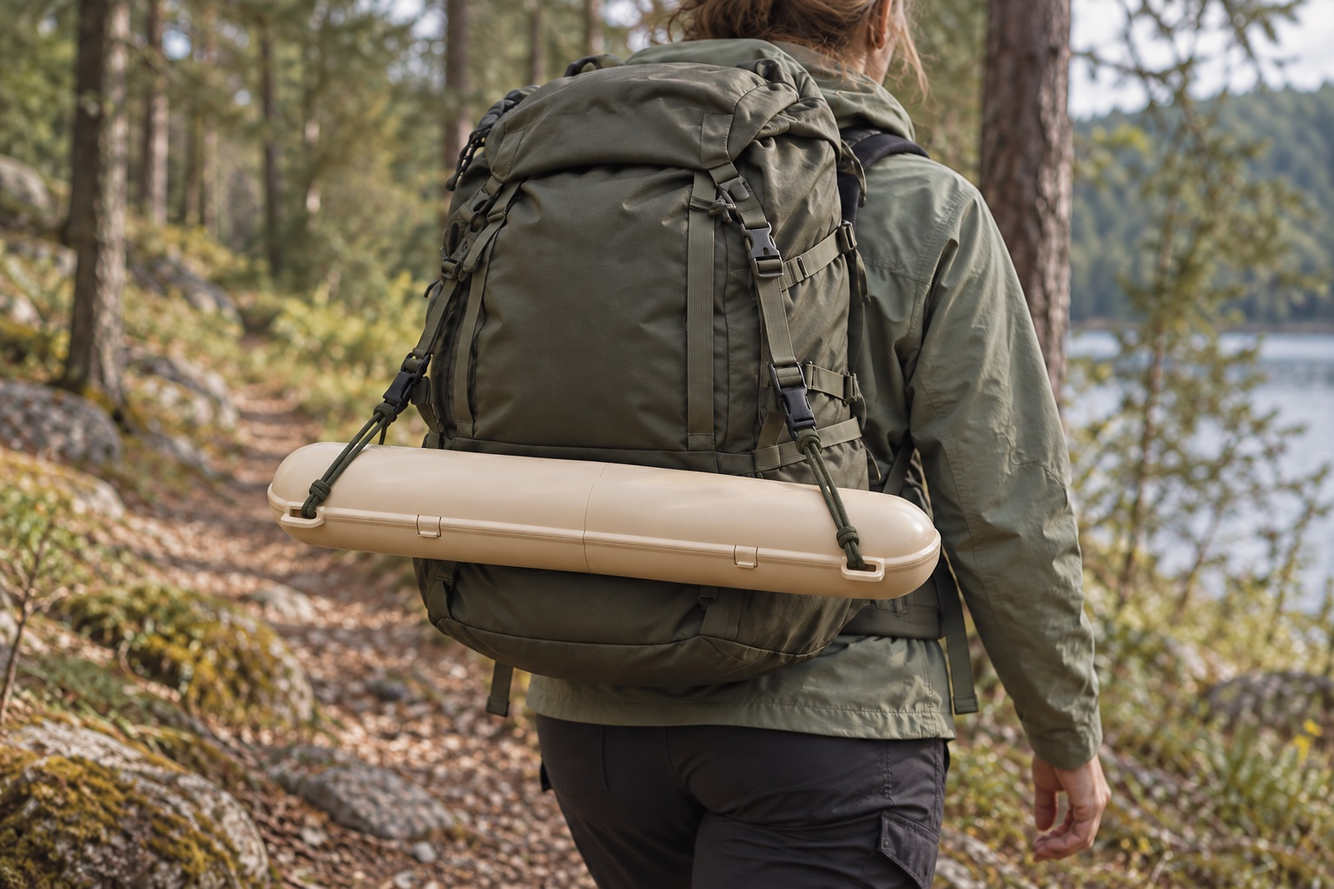
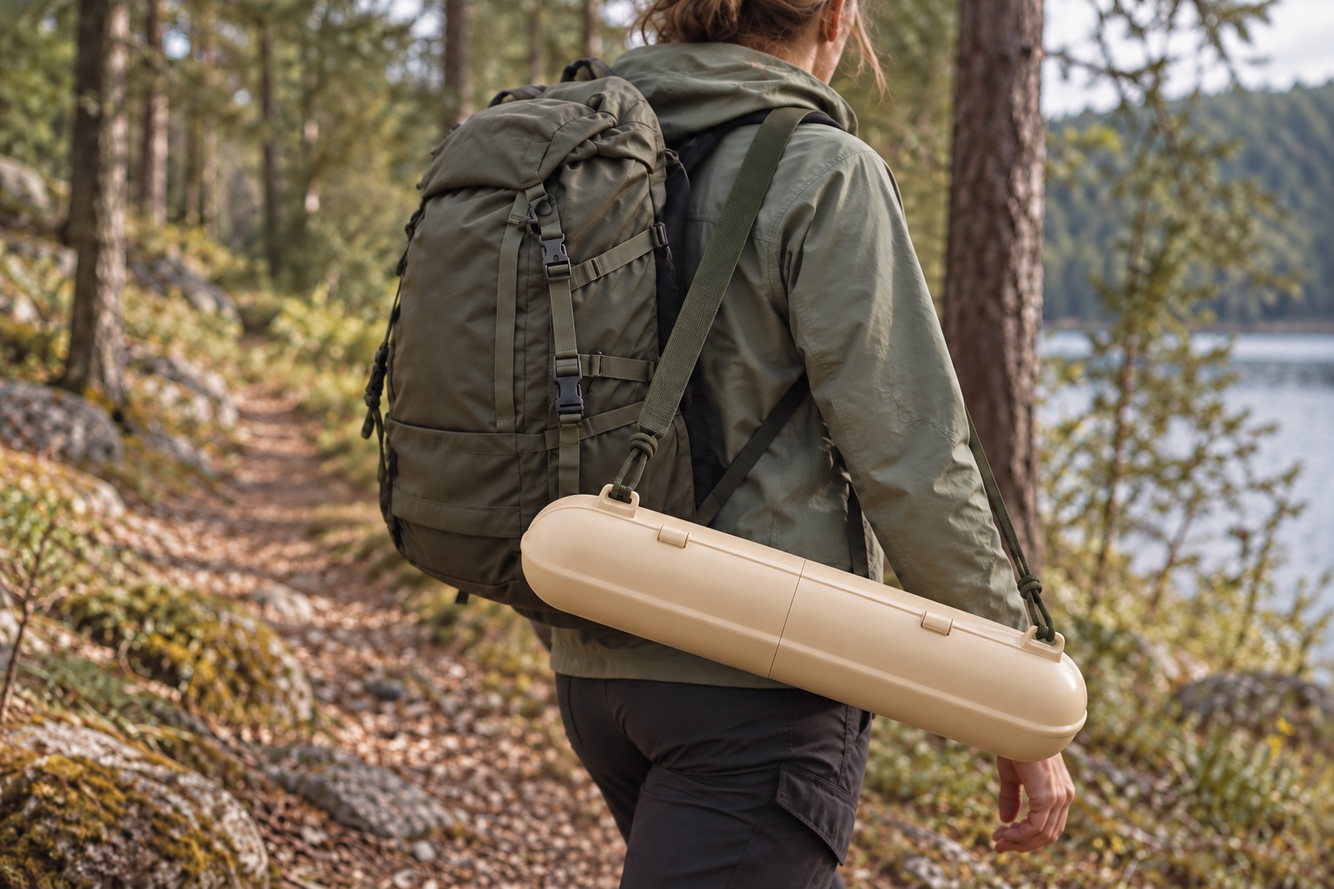
Correct baguette strap suspension and open use cases first

diff --git a/src/baguette-project.js b/src/baguette-project.js
@@ -48,11 +48,11 @@ function buildFeatures(info,gallery,viewer){
 }
 
 const useCases=[
- {id:'carry',label:'01 / STRAP FUNCTIONALITY',title:'A strap. Two attachment points.',copy:'A removable shoulder strap connects to the rounded eyes at either end of the shell. Carry it at your side and leave your hands free.',alt:'Concept rendering of the ivory baguette case worn at the hip, with an olive shoulder strap connected to its end eyes.'},
+ {id:'carry',label:'01 / STRAP FUNCTIONALITY',title:'A strap. Two attachment points.',copy:'The shoulder strap pulls outward from the two projecting eyes. The case hangs beneath these tension points, with the strap clear of the shell.',alt:'Concept rendering of the ivory baguette case hanging below its two outward-projecting eyes, with taut shoulder straps clear of the shell.'},
  {id:'rain',label:'02 / RAIN',title:'For the walk home.',copy:'A closed-shell carry concept for a drizzly trip from the bakery. Weather resistance is still to be tested.',alt:'Model-based concept of the closed baguette holder on a shoulder strap during a rainy walk.'},
  {id:'picnic',label:'03 / PICNIC',title:'Unclip. Open. Share.',copy:'Set it down on the blanket and open the hinged lid. The smooth interior leaves room for one very good baguette.',alt:'Concept rendering of the open baguette case holding bread on a linen picnic blanket.'},
  {id:'travel',label:'04 / TRAVEL',title:'A little room for the journey.',copy:'From the bakery to the train, keep your baguette in its own contoured case. Unshoulder the strap when it is time to settle in.',alt:'Concept rendering of the closed baguette case and its loose carry strap on a train table.'},
- {id:'backpacking',label:'05 / BACKPACKING',title:'Bread beyond the city.',copy:'Use the end eyes to connect the holder to pack webbing with accessory straps. A trail-carry concept with the bread close at hand.',alt:'Concept rendering of the baguette holder attached horizontally to a hiking backpack through its two end eyes.'}
+ {id:'backpacking',label:'05 / BACKPACKING',title:'Bread beyond the city.',copy:'Wear the strap over your shoulder and let the case hang at your side. Both ends pull from the projecting eyes, leaving your backpack free for the rest.',alt:'Concept rendering of a hiker carrying the baguette case at their hip on a shoulder strap, suspended from its two outer eyes.'}
 ];
 
 function buildUseCases(){
@@ -62,7 +62,7 @@ function buildUseCases(){
  const grid=make('div','baguette-use-case-grid');
  for(const scene of useCases){
   const card=make('article','baguette-use-case'+(scene.id==='carry'?' baguette-use-case-lead':''));
-  const figure=make('figure');const img=make('img');img.src=new URL(`../assets/baguette-use-cases/${scene.id}.jpg`,import.meta.url).href;img.alt=scene.alt;img.width=1536;img.height=1024;img.loading='lazy';img.decoding='async';figure.append(img);
+  const figure=make('figure');const img=make('img');img.src=new URL(`../assets/baguette-use-cases/${scene.id}.jpg?v=shoulder-20260912`,import.meta.url).href;img.alt=scene.alt;img.width=1536;img.height=1024;img.loading=scene.id==='carry'?'eager':'lazy';img.decoding='async';figure.append(img);
   const copy=make('div','baguette-use-case-copy');copy.append(make('span','section-number',scene.label),make('h3','',scene.title),make('p','',scene.copy));
   card.append(figure,copy);grid.append(card);
  }
@@ -72,7 +72,7 @@ function buildUseCases(){
 function buildContentViews(features,useCases){
  const wrapper=make('div','baguette-content-views');
  const tabs=make('div','baguette-content-tabs');tabs.setAttribute('role','tablist');tabs.setAttribute('aria-label','Explore the baguette holder');
- const entries=[['features','Features',features],['use-cases','Use cases',useCases]];
+ const entries=[['use-cases','Use cases',useCases],['features','Features',features]];
  const buttons=entries.map(([id,label,panel])=>{
   const button=make('button','',label);button.type='button';button.id=`baguette-tab-${id}`;button.setAttribute('role','tab');button.setAttribute('aria-controls',`baguette-panel-${id}`);
   panel.id=`baguette-panel-${id}`;panel.setAttribute('role','tabpanel');panel.setAttribute('aria-labelledby',button.id);panel.tabIndex=0;tabs.append(button);return button;
@@ -82,7 +82,8 @@ function buildContentViews(features,useCases){
   button.addEventListener('click',()=>select(index));
   button.addEventListener('keydown',event=>{let next;if(event.key==='ArrowRight')next=(index+1)%buttons.length;if(event.key==='ArrowLeft')next=(index+buttons.length-1)%buttons.length;if(event.key==='Home')next=0;if(event.key==='End')next=buttons.length-1;if(next===undefined)return;event.preventDefault();select(next);buttons[next].focus();});
  });
- select(0);wrapper.append(tabs,features,useCases);return wrapper;
+ // Shared model-view links still open their requested geometry directly.
+ select(new URLSearchParams(location.search).has('view')?1:0);wrapper.append(tabs,...entries.map(([, ,panel])=>panel));return wrapper;
 }
 
 export async function buildBaguetteProject(container,project){
@@ -107,8 +108,9 @@ export async function buildBaguetteProject(container,project){
   const note=document.createElement('span');note.className='prototype';note.textContent=review.querySelector('.prototype')?.textContent||'Engineering prototype';heading.append(revision,note);
   const viewer=copy(originalViewer),info=copy(details),gallery=copy(renders);
   const hint=document.createElement('p');hint.className='baguette-gesture-hint';hint.textContent='Drag to rotate · Scroll to move the page';viewer.querySelector('[data-model-stage]').after(hint);
-  const contentViews=buildContentViews(buildFeatures(info,gallery,viewer),buildUseCases());
-  experience.replaceChildren(heading,viewer,contentViews);
+  const features=buildFeatures(info,gallery,viewer);features.prepend(heading,viewer);
+  const contentViews=buildContentViews(features,buildUseCases());
+  experience.replaceChildren(contentViews);
   document.querySelector('meta[name="description"]')?.setAttribute('content',project.description?.[0]||project.summary);
   const revisionQuery=new URL(review.querySelector('script[src*="review.js"]').getAttribute('src'),reviewURL).search;
   const modelURL=assetURL('baguette-v3.glb'+revisionQuery);

diff --git a/project.html b/project.html
@@ -1,1 +1,1 @@
-<!doctype html><html lang="en"><head><meta charset="utf-8"><meta name="viewport" content="width=device-width,initial-scale=1"><title>Project — Parametric Space</title><meta name="description" content="Explore projects from Parametric Space."><link rel="icon" href="assets/logo-ps-transparent.png"><script>if(new URLSearchParams(location.search).get("id")==="csi-presence")document.documentElement.classList.add("radar-project-page");if(new URLSearchParams(location.search).get("id")==="station")document.documentElement.classList.add("station-project-page");if(new URLSearchParams(location.search).get("id")==="modular-garage")document.documentElement.classList.add("garage-project-page");</script><script src="theme.js?v=f5b2ecdff2"></script><link rel="stylesheet" href="styles.css?v=1f9f2c5406"><link rel="stylesheet" href="garage.css?v=22989c6191"><script>if(new URLSearchParams(location.search).get('id')==='station'){const sheet=document.createElement('link');sheet.rel='stylesheet';sheet.href='station.css?v=42d08a5e2c';document.head.append(sheet);}</script><script>if(new URLSearchParams(location.search).get('id')==='csi-presence'){const sheet=document.createElement('link');sheet.rel='stylesheet';sheet.href='radar.css?v=csi-abstract-1';document.head.append(sheet);}</script></head><body data-page="project"><div class="site-shell"><header><a href="./" class="brand" aria-label="Parametric Space home"><img class="logo-3d" src="assets/logo-ps-transparent.png" width="68" height="68" alt=""/><span>parametric space<span class="brand-dot">.</span></span></a><nav class="site-nav" aria-label="Main"><a href="projects.html">Projects</a><a href="cart.html">Cart <span data-cart-count>0</span></a><button class="theme-toggle" type="button" data-theme-toggle aria-label="Switch to dark mode" aria-pressed="false"><svg class="theme-icon" viewBox="0 0 24 24" width="19" height="19" fill="none" stroke="currentColor" stroke-width="1.6" aria-hidden="true"><path d="M20.3 14A8.5 8.5 0 0 1 10 3.7 8.5 8.5 0 1 0 20.3 14Z"/></svg><span data-theme-label>Dark</span></button></nav></header><main class="shop-main"><div class="shop-heading"><span class="section-number">PARAMETRIC SPACE / PROJECT</span><h1 id="page-heading">Project</h1><p id="page-intro"></p></div><div id="shop-content"></div><p id="shop-status" role="status" aria-live="polite"></p><noscript>Please enable JavaScript to view projects and use the cart.</noscript></main><footer><span>© <span id="year">2026</span> Parametric Space</span><a href="mailto:info@parametric.space">info@parametric.space</a></footer></div><script src="shop-config.js?v=3938344221"></script><script type="module" src="shop.js?v=b11a629762"></script></body></html>
+<!doctype html><html lang="en"><head><meta charset="utf-8"><meta name="viewport" content="width=device-width,initial-scale=1"><title>Project — Parametric Space</title><meta name="description" content="Explore projects from Parametric Space."><link rel="icon" href="assets/logo-ps-transparent.png"><script>if(new URLSearchParams(location.search).get("id")==="csi-presence")document.documentElement.classList.add("radar-project-page");if(new URLSearchParams(location.search).get("id")==="station")document.documentElement.classList.add("station-project-page");if(new URLSearchParams(location.search).get("id")==="modular-garage")document.documentElement.classList.add("garage-project-page");</script><script src="theme.js?v=f5b2ecdff2"></script><link rel="stylesheet" href="styles.css?v=1f9f2c5406"><link rel="stylesheet" href="garage.css?v=22989c6191"><script>if(new URLSearchParams(location.search).get('id')==='station'){const sheet=document.createElement('link');sheet.rel='stylesheet';sheet.href='station.css?v=42d08a5e2c';document.head.append(sheet);}</script><script>if(new URLSearchParams(location.search).get('id')==='csi-presence'){const sheet=document.createElement('link');sheet.rel='stylesheet';sheet.href='radar.css?v=csi-abstract-1';document.head.append(sheet);}</script></head><body data-page="project"><div class="site-shell"><header><a href="./" class="brand" aria-label="Parametric Space home"><img class="logo-3d" src="assets/logo-ps-transparent.png" width="68" height="68" alt=""/><span>parametric space<span class="brand-dot">.</span></span></a><nav class="site-nav" aria-label="Main"><a href="projects.html">Projects</a><a href="cart.html">Cart <span data-cart-count>0</span></a><button class="theme-toggle" type="button" data-theme-toggle aria-label="Switch to dark mode" aria-pressed="false"><svg class="theme-icon" viewBox="0 0 24 24" width="19" height="19" fill="none" stroke="currentColor" stroke-width="1.6" aria-hidden="true"><path d="M20.3 14A8.5 8.5 0 0 1 10 3.7 8.5 8.5 0 1 0 20.3 14Z"/></svg><span data-theme-label>Dark</span></button></nav></header><main class="shop-main"><div class="shop-heading"><span class="section-number">PARAMETRIC SPACE / PROJECT</span><h1 id="page-heading">Project</h1><p id="page-intro"></p></div><div id="shop-content"></div><p id="shop-status" role="status" aria-live="polite"></p><noscript>Please enable JavaScript to view projects and use the cart.</noscript></main><footer><span>© <span id="year">2026</span> Parametric Space</span><a href="mailto:info@parametric.space">info@parametric.space</a></footer></div><script src="shop-config.js?v=3938344221"></script><script type="module" src="shop.js?v=13aa826220"></script></body></html>

diff --git a/projects-3d.html b/projects-3d.html
@@ -1,1 +1,1 @@
-<!doctype html><html lang="en"><head><meta charset="utf-8"><meta name="viewport" content="width=device-width,initial-scale=1"><link rel="canonical" href="https://parametric.space/projects.html"><title>Projects — Parametric Space</title><meta name="description" content="Explore projects from Parametric Space."><link rel="icon" href="assets/logo-ps-transparent.png"><script src="theme.js?v=f5b2ecdff2"></script><link rel="stylesheet" href="styles.css?v=1f9f2c5406"><link rel="stylesheet" href="garage.css?v=22989c6191"></head><body data-page="projects"><div class="site-shell"><header><a href="./" class="brand" aria-label="Parametric Space home"><img class="logo-3d" src="assets/logo-ps-transparent.png" width="68" height="68" alt=""/><span>parametric space<span class="brand-dot">.</span></span></a><nav class="site-nav" aria-label="Main"><a href="projects.html">Projects</a><a href="cart.html">Cart <span data-cart-count>0</span></a><button class="theme-toggle" type="button" data-theme-toggle aria-label="Switch to dark mode" aria-pressed="false"><svg class="theme-icon" viewBox="0 0 24 24" width="19" height="19" fill="none" stroke="currentColor" stroke-width="1.6" aria-hidden="true"><path d="M20.3 14A8.5 8.5 0 0 1 10 3.7 8.5 8.5 0 1 0 20.3 14Z"/></svg><span data-theme-label>Dark</span></button></nav></header><main class="shop-main"><div class="shop-heading"><span class="section-number">PARAMETRIC SPACE / PROJECTS</span><h1 id="page-heading">Projects</h1><p id="page-intro">Objects, devices, and ideas taking shape.</p></div><div id="shop-content"></div><p id="shop-status" role="status" aria-live="polite"></p><noscript>Please enable JavaScript to view projects and use the cart.</noscript></main><footer><span>© <span id="year">2026</span> Parametric Space</span><a href="mailto:info@parametric.space">info@parametric.space</a></footer></div><script src="shop-config.js?v=3938344221"></script><script type="module" src="shop.js?v=b11a629762"></script></body></html>
+<!doctype html><html lang="en"><head><meta charset="utf-8"><meta name="viewport" content="width=device-width,initial-scale=1"><link rel="canonical" href="https://parametric.space/projects.html"><title>Projects — Parametric Space</title><meta name="description" content="Explore projects from Parametric Space."><link rel="icon" href="assets/logo-ps-transparent.png"><script src="theme.js?v=f5b2ecdff2"></script><link rel="stylesheet" href="styles.css?v=1f9f2c5406"><link rel="stylesheet" href="garage.css?v=22989c6191"></head><body data-page="projects"><div class="site-shell"><header><a href="./" class="brand" aria-label="Parametric Space home"><img class="logo-3d" src="assets/logo-ps-transparent.png" width="68" height="68" alt=""/><span>parametric space<span class="brand-dot">.</span></span></a><nav class="site-nav" aria-label="Main"><a href="projects.html">Projects</a><a href="cart.html">Cart <span data-cart-count>0</span></a><button class="theme-toggle" type="button" data-theme-toggle aria-label="Switch to dark mode" aria-pressed="false"><svg class="theme-icon" viewBox="0 0 24 24" width="19" height="19" fill="none" stroke="currentColor" stroke-width="1.6" aria-hidden="true"><path d="M20.3 14A8.5 8.5 0 0 1 10 3.7 8.5 8.5 0 1 0 20.3 14Z"/></svg><span data-theme-label>Dark</span></button></nav></header><main class="shop-main"><div class="shop-heading"><span class="section-number">PARAMETRIC SPACE / PROJECTS</span><h1 id="page-heading">Projects</h1><p id="page-intro">Objects, devices, and ideas taking shape.</p></div><div id="shop-content"></div><p id="shop-status" role="status" aria-live="polite"></p><noscript>Please enable JavaScript to view projects and use the cart.</noscript></main><footer><span>© <span id="year">2026</span> Parametric Space</span><a href="mailto:info@parametric.space">info@parametric.space</a></footer></div><script src="shop-config.js?v=3938344221"></script><script type="module" src="shop.js?v=13aa826220"></script></body></html>

diff --git a/projects-hardware.html b/projects-hardware.html
@@ -1,1 +1,1 @@
-<!doctype html><html lang="en"><head><meta charset="utf-8"><meta name="viewport" content="width=device-width,initial-scale=1"><link rel="canonical" href="https://parametric.space/projects.html"><title>Projects — Parametric Space</title><meta name="description" content="Explore projects from Parametric Space."><link rel="icon" href="assets/logo-ps-transparent.png"><script src="theme.js?v=f5b2ecdff2"></script><link rel="stylesheet" href="styles.css?v=1f9f2c5406"><link rel="stylesheet" href="garage.css?v=22989c6191"></head><body data-page="projects"><div class="site-shell"><header><a href="./" class="brand" aria-label="Parametric Space home"><img class="logo-3d" src="assets/logo-ps-transparent.png" width="68" height="68" alt=""/><span>parametric space<span class="brand-dot">.</span></span></a><nav class="site-nav" aria-label="Main"><a href="projects.html">Projects</a><a href="cart.html">Cart <span data-cart-count>0</span></a><button class="theme-toggle" type="button" data-theme-toggle aria-label="Switch to dark mode" aria-pressed="false"><svg class="theme-icon" viewBox="0 0 24 24" width="19" height="19" fill="none" stroke="currentColor" stroke-width="1.6" aria-hidden="true"><path d="M20.3 14A8.5 8.5 0 0 1 10 3.7 8.5 8.5 0 1 0 20.3 14Z"/></svg><span data-theme-label>Dark</span></button></nav></header><main class="shop-main"><div class="shop-heading"><span class="section-number">PARAMETRIC SPACE / PROJECTS</span><h1 id="page-heading">Projects</h1><p id="page-intro">Objects, devices, and ideas taking shape.</p></div><div id="shop-content"></div><p id="shop-status" role="status" aria-live="polite"></p><noscript>Please enable JavaScript to view projects and use the cart.</noscript></main><footer><span>© <span id="year">2026</span> Parametric Space</span><a href="mailto:info@parametric.space">info@parametric.space</a></footer></div><script src="shop-config.js?v=3938344221"></script><script type="module" src="shop.js?v=b11a629762"></script></body></html>
+<!doctype html><html lang="en"><head><meta charset="utf-8"><meta name="viewport" content="width=device-width,initial-scale=1"><link rel="canonical" href="https://parametric.space/projects.html"><title>Projects — Parametric Space</title><meta name="description" content="Explore projects from Parametric Space."><link rel="icon" href="assets/logo-ps-transparent.png"><script src="theme.js?v=f5b2ecdff2"></script><link rel="stylesheet" href="styles.css?v=1f9f2c5406"><link rel="stylesheet" href="garage.css?v=22989c6191"></head><body data-page="projects"><div class="site-shell"><header><a href="./" class="brand" aria-label="Parametric Space home"><img class="logo-3d" src="assets/logo-ps-transparent.png" width="68" height="68" alt=""/><span>parametric space<span class="brand-dot">.</span></span></a><nav class="site-nav" aria-label="Main"><a href="projects.html">Projects</a><a href="cart.html">Cart <span data-cart-count>0</span></a><button class="theme-toggle" type="button" data-theme-toggle aria-label="Switch to dark mode" aria-pressed="false"><svg class="theme-icon" viewBox="0 0 24 24" width="19" height="19" fill="none" stroke="currentColor" stroke-width="1.6" aria-hidden="true"><path d="M20.3 14A8.5 8.5 0 0 1 10 3.7 8.5 8.5 0 1 0 20.3 14Z"/></svg><span data-theme-label>Dark</span></button></nav></header><main class="shop-main"><div class="shop-heading"><span class="section-number">PARAMETRIC SPACE / PROJECTS</span><h1 id="page-heading">Projects</h1><p id="page-intro">Objects, devices, and ideas taking shape.</p></div><div id="shop-content"></div><p id="shop-status" role="status" aria-live="polite"></p><noscript>Please enable JavaScript to view projects and use the cart.</noscript></main><footer><span>© <span id="year">2026</span> Parametric Space</span><a href="mailto:info@parametric.space">info@parametric.space</a></footer></div><script src="shop-config.js?v=3938344221"></script><script type="module" src="shop.js?v=13aa826220"></script></body></html>

diff --git a/projects.html b/projects.html
@@ -1,1 +1,1 @@
-<!doctype html><html lang="en"><head><meta charset="utf-8"><meta name="viewport" content="width=device-width,initial-scale=1"><title>Projects — Parametric Space</title><meta name="description" content="Explore projects from Parametric Space."><link rel="icon" href="assets/logo-ps-transparent.png"><script src="theme.js?v=f5b2ecdff2"></script><link rel="stylesheet" href="styles.css?v=1f9f2c5406"><link rel="stylesheet" href="garage.css?v=22989c6191"></head><body data-page="projects"><div class="site-shell"><header><a href="./" class="brand" aria-label="Parametric Space home"><img class="logo-3d" src="assets/logo-ps-transparent.png" width="68" height="68" alt=""/><span>parametric space<span class="brand-dot">.</span></span></a><nav class="site-nav" aria-label="Main"><a href="projects.html">Projects</a><a href="cart.html">Cart <span data-cart-count>0</span></a><button class="theme-toggle" type="button" data-theme-toggle aria-label="Switch to dark mode" aria-pressed="false"><svg class="theme-icon" viewBox="0 0 24 24" width="19" height="19" fill="none" stroke="currentColor" stroke-width="1.6" aria-hidden="true"><path d="M20.3 14A8.5 8.5 0 0 1 10 3.7 8.5 8.5 0 1 0 20.3 14Z"/></svg><span data-theme-label>Dark</span></button></nav></header><main class="shop-main"><div class="shop-heading"><span class="section-number">PARAMETRIC SPACE / PROJECTS</span><h1 id="page-heading">Projects</h1><p id="page-intro">Objects, devices, and ideas taking shape.</p></div><div id="shop-content"></div><p id="shop-status" role="status" aria-live="polite"></p><noscript>Please enable JavaScript to view projects and use the cart.</noscript></main><footer><span>© <span id="year">2026</span> Parametric Space</span><a href="mailto:info@parametric.space">info@parametric.space</a></footer></div><script src="shop-config.js?v=3938344221"></script><script type="module" src="shop.js?v=b11a629762"></script></body></html>
+<!doctype html><html lang="en"><head><meta charset="utf-8"><meta name="viewport" content="width=device-width,initial-scale=1"><title>Projects — Parametric Space</title><meta name="description" content="Explore projects from Parametric Space."><link rel="icon" href="assets/logo-ps-transparent.png"><script src="theme.js?v=f5b2ecdff2"></script><link rel="stylesheet" href="styles.css?v=1f9f2c5406"><link rel="stylesheet" href="garage.css?v=22989c6191"></head><body data-page="projects"><div class="site-shell"><header><a href="./" class="brand" aria-label="Parametric Space home"><img class="logo-3d" src="assets/logo-ps-transparent.png" width="68" height="68" alt=""/><span>parametric space<span class="brand-dot">.</span></span></a><nav class="site-nav" aria-label="Main"><a href="projects.html">Projects</a><a href="cart.html">Cart <span data-cart-count>0</span></a><button class="theme-toggle" type="button" data-theme-toggle aria-label="Switch to dark mode" aria-pressed="false"><svg class="theme-icon" viewBox="0 0 24 24" width="19" height="19" fill="none" stroke="currentColor" stroke-width="1.6" aria-hidden="true"><path d="M20.3 14A8.5 8.5 0 0 1 10 3.7 8.5 8.5 0 1 0 20.3 14Z"/></svg><span data-theme-label>Dark</span></button></nav></header><main class="shop-main"><div class="shop-heading"><span class="section-number">PARAMETRIC SPACE / PROJECTS</span><h1 id="page-heading">Projects</h1><p id="page-intro">Objects, devices, and ideas taking shape.</p></div><div id="shop-content"></div><p id="shop-status" role="status" aria-live="polite"></p><noscript>Please enable JavaScript to view projects and use the cart.</noscript></main><footer><span>© <span id="year">2026</span> Parametric Space</span><a href="mailto:info@parametric.space">info@parametric.space</a></footer></div><script src="shop-config.js?v=3938344221"></script><script type="module" src="shop.js?v=13aa826220"></script></body></html>

diff --git a/cart.html b/cart.html
@@ -1,1 +1,1 @@
-<!doctype html><html lang="en"><head><meta charset="utf-8"><meta name="viewport" content="width=device-width,initial-scale=1"><title>Your cart — Parametric Space</title><meta name="description" content="Explore projects from Parametric Space."><link rel="icon" href="assets/logo-ps-transparent.png"><script src="theme.js?v=f5b2ecdff2"></script><link rel="stylesheet" href="styles.css?v=1f9f2c5406"></head><body data-page="cart"><div class="site-shell"><header><a href="./" class="brand" aria-label="Parametric Space home"><img class="logo-3d" src="assets/logo-ps-transparent.png" width="68" height="68" alt=""/><span>parametric space<span class="brand-dot">.</span></span></a><nav class="site-nav" aria-label="Main"><a href="projects.html">Projects</a><a href="cart.html">Cart <span data-cart-count>0</span></a><button class="theme-toggle" type="button" data-theme-toggle aria-label="Switch to dark mode" aria-pressed="false"><svg class="theme-icon" viewBox="0 0 24 24" width="19" height="19" fill="none" stroke="currentColor" stroke-width="1.6" aria-hidden="true"><path d="M20.3 14A8.5 8.5 0 0 1 10 3.7 8.5 8.5 0 1 0 20.3 14Z"/></svg><span data-theme-label>Dark</span></button></nav></header><main class="shop-main"><div class="shop-heading"><span class="section-number">PARAMETRIC SPACE / CART</span><h1 id="page-heading">Your cart</h1><p id="page-intro">Review your selections.</p></div><div id="shop-content"></div><p id="shop-status" role="status" aria-live="polite"></p><noscript>Please enable JavaScript to view projects and use the cart.</noscript></main><footer><span>© <span id="year">2026</span> Parametric Space</span><a href="mailto:info@parametric.space">info@parametric.space</a></footer></div><script src="shop-config.js?v=3938344221"></script><script type="module" src="shop.js?v=b11a629762"></script></body></html>
+<!doctype html><html lang="en"><head><meta charset="utf-8"><meta name="viewport" content="width=device-width,initial-scale=1"><title>Your cart — Parametric Space</title><meta name="description" content="Explore projects from Parametric Space."><link rel="icon" href="assets/logo-ps-transparent.png"><script src="theme.js?v=f5b2ecdff2"></script><link rel="stylesheet" href="styles.css?v=1f9f2c5406"></head><body data-page="cart"><div class="site-shell"><header><a href="./" class="brand" aria-label="Parametric Space home"><img class="logo-3d" src="assets/logo-ps-transparent.png" width="68" height="68" alt=""/><span>parametric space<span class="brand-dot">.</span></span></a><nav class="site-nav" aria-label="Main"><a href="projects.html">Projects</a><a href="cart.html">Cart <span data-cart-count>0</span></a><button class="theme-toggle" type="button" data-theme-toggle aria-label="Switch to dark mode" aria-pressed="false"><svg class="theme-icon" viewBox="0 0 24 24" width="19" height="19" fill="none" stroke="currentColor" stroke-width="1.6" aria-hidden="true"><path d="M20.3 14A8.5 8.5 0 0 1 10 3.7 8.5 8.5 0 1 0 20.3 14Z"/></svg><span data-theme-label>Dark</span></button></nav></header><main class="shop-main"><div class="shop-heading"><span class="section-number">PARAMETRIC SPACE / CART</span><h1 id="page-heading">Your cart</h1><p id="page-intro">Review your selections.</p></div><div id="shop-content"></div><p id="shop-status" role="status" aria-live="polite"></p><noscript>Please enable JavaScript to view projects and use the cart.</noscript></main><footer><span>© <span id="year">2026</span> Parametric Space</span><a href="mailto:info@parametric.space">info@parametric.space</a></footer></div><script src="shop-config.js?v=3938344221"></script><script type="module" src="shop.js?v=13aa826220"></script></body></html>

diff --git a/checkout-result.html b/checkout-result.html
@@ -1,1 +1,1 @@
-<!doctype html><html lang="en"><head><meta charset="utf-8"><meta name="viewport" content="width=device-width,initial-scale=1"><title>Checkout — Parametric Space</title><meta name="description" content="Explore projects from Parametric Space."><link rel="icon" href="assets/logo-ps-transparent.png"><script src="theme.js?v=f5b2ecdff2"></script><link rel="stylesheet" href="styles.css?v=1f9f2c5406"></head><body data-page="result"><div class="site-shell"><header><a href="./" class="brand" aria-label="Parametric Space home"><img class="logo-3d" src="assets/logo-ps-transparent.png" width="68" height="68" alt=""/><span>parametric space<span class="brand-dot">.</span></span></a><nav class="site-nav" aria-label="Main"><a href="projects.html">Projects</a><a href="cart.html">Cart <span data-cart-count>0</span></a><button class="theme-toggle" type="button" data-theme-toggle aria-label="Switch to dark mode" aria-pressed="false"><svg class="theme-icon" viewBox="0 0 24 24" width="19" height="19" fill="none" stroke="currentColor" stroke-width="1.6" aria-hidden="true"><path d="M20.3 14A8.5 8.5 0 0 1 10 3.7 8.5 8.5 0 1 0 20.3 14Z"/></svg><span data-theme-label>Dark</span></button></nav></header><main class="shop-main"><div class="shop-heading"><span class="section-number">PARAMETRIC SPACE / RESULT</span><h1 id="page-heading">Checkout</h1><p id="page-intro"></p></div><div id="shop-content"></div><p id="shop-status" role="status" aria-live="polite"></p><noscript>Please enable JavaScript to view projects and use the cart.</noscript></main><footer><span>© <span id="year">2026</span> Parametric Space</span><a href="mailto:info@parametric.space">info@parametric.space</a></footer></div><script src="shop-config.js?v=3938344221"></script><script type="module" src="shop.js?v=b11a629762"></script></body></html>
+<!doctype html><html lang="en"><head><meta charset="utf-8"><meta name="viewport" content="width=device-width,initial-scale=1"><title>Checkout — Parametric Space</title><meta name="description" content="Explore projects from Parametric Space."><link rel="icon" href="assets/logo-ps-transparent.png"><script src="theme.js?v=f5b2ecdff2"></script><link rel="stylesheet" href="styles.css?v=1f9f2c5406"></head><body data-page="result"><div class="site-shell"><header><a href="./" class="brand" aria-label="Parametric Space home"><img class="logo-3d" src="assets/logo-ps-transparent.png" width="68" height="68" alt=""/><span>parametric space<span class="brand-dot">.</span></span></a><nav class="site-nav" aria-label="Main"><a href="projects.html">Projects</a><a href="cart.html">Cart <span data-cart-count>0</span></a><button class="theme-toggle" type="button" data-theme-toggle aria-label="Switch to dark mode" aria-pressed="false"><svg class="theme-icon" viewBox="0 0 24 24" width="19" height="19" fill="none" stroke="currentColor" stroke-width="1.6" aria-hidden="true"><path d="M20.3 14A8.5 8.5 0 0 1 10 3.7 8.5 8.5 0 1 0 20.3 14Z"/></svg><span data-theme-label>Dark</span></button></nav></header><main class="shop-main"><div class="shop-heading"><span class="section-number">PARAMETRIC SPACE / RESULT</span><h1 id="page-heading">Checkout</h1><p id="page-intro"></p></div><div id="shop-content"></div><p id="shop-status" role="status" aria-live="polite"></p><noscript>Please enable JavaScript to view projects and use the cart.</noscript></main><footer><span>© <span id="year">2026</span> Parametric Space</span><a href="mailto:info@parametric.space">info@parametric.space</a></footer></div><script src="shop-config.js?v=3938344221"></script><script type="module" src="shop.js?v=13aa826220"></script></body></html>

diff --git a/shop.js b/shop.js
@@ -40,7 +40,7 @@ function detail(){const p=projects.find(p=>p.id===({arowana:'trout'}[new URLSear
  document.title=p.title+' — Parametric Space';document.getElementById('page-heading').textContent=p.title;document.getElementById('page-intro').textContent=p.summary||'';
  root.append(link('← All projects','projects.html','secondary-button category-back'));
  const content=el('div',undefined,'project-detail');const visual=image(p);
- if(p.id==='baguette-holder'){content.classList.add('baguette-detail');root.append(content);import('./src/baguette-project.js?v=ae3fcc98c7').then(({buildBaguetteProject})=>buildBaguetteProject(content,p)).catch(()=>content.append(link('Open the working baguette preview →','reviews/baguette-v3/','secondary-button')));return;}
+ if(p.id==='baguette-holder'){content.classList.add('baguette-detail');root.append(content);import('./src/baguette-project.js?v=ae85e53159').then(({buildBaguetteProject})=>buildBaguetteProject(content,p)).catch(()=>content.append(link('Open the working baguette preview →','reviews/baguette-v3/','secondary-button')));return;}
  if(p.id==='station'){root.append(content);import('./src/station-project.js?v=602ffaaca1').then(({buildStationProject})=>buildStationProject(root,content,p)).catch(()=>content.append(el('p','The Station viewer is unavailable. Please reload to try again.')));return;}
  if(p.experience==='radar'){document.documentElement.classList.add('radar-project-page');import('./src/radar-project.js?v=csi-abstract-1').then(({buildRadarProject})=>buildRadarProject(content,p)).catch(()=>{content.textContent='The simulation could not load. Please reload the page.';});root.append(content);document.querySelector('meta[name="description"]')?.setAttribute('content',p.summary);return;}
  if(p.experience==='garage'){content.classList.add('has-model','garage-detail');buildGarageProject(content,p);root.append(content);document.querySelector('meta[name="description"]')?.setAttribute('content',p.summary);return;}

diff --git a/assets/baguette-use-cases/README.md b/assets/baguette-use-cases/README.md
@@ -39,3 +39,34 @@ Show a rear three-quarter view of an adult walking a wooded trail with a subdued
 Applied to carry, rain and backpacking after visual review, with the original generated scene plus the strap and closed CAD renders as references.
 
 Use case: precise-object-edit. Image 1 is the target lifestyle rendering. Image 2 is the exact real CAD strap-eye reference; image 3 is the full exact closed case. Change ONLY the strap attachment at each end of the case in image 1. The two flattened rectangular projecting EYES on the FRONT RIM already exist and are currently EMPTY. Route each dark olive cord loop THROUGH the empty slot in those existing low front-rim eyes. REMOVE the invented raised eyes/holes on TOP of the lid entirely and restore a smooth unbroken lid there. There must be exactly TWO total attachment eyes, the existing low projecting ones at each end of the front seam, BOTH occupied by cord. Move the lower strap ends forward/down just enough to pass through these slots, maintaining taut support against gravity. Keep the case shape, size, latches, center seam, person, scene, lighting, weather, and every other detail unchanged. No additional hardware, no duplicate eyes, no new holes or handles, no text.
+
+## Suspension and shoulder-carry revision · 2026-09-12
+
+Updated `carry.jpg`, `rain.jpg` and `backpacking.jpg` with the built-in image-generation tool. The carrying case hangs below its two outward-projecting attachment eyes, with the straps pulling clear of the shell. The hiking scene uses a shoulder strap rather than attachments to the backpack. The picnic and train scenes retain their resting, unloaded straps.
+
+### Shared suspension edit prompt
+
+Use case: precise-object-edit.
+Asset type: photorealistic lifestyle rendering for the existing baguette-holder project, landscape 1536x1024.
+Inputs: image 1 is the lifestyle edit target. Image 2 shows the true CAD attachment-eye geometry. Image 3 shows the complete true case as a geometry reference, NOT its desired hanging orientation.
+Primary correction: physically correct suspension from the TWO OUTWARD-PROJECTING strap eyes. In the target the case incorrectly sits flat like a tray while the straps bend over its lid. ROLL THE ENTIRE RIGID CASE roughly 90 degrees ABOUT ITS LONG AXIS: its broad lid face should be nearly VERTICAL, facing the viewer outward like the side of a shoulder bag. Its two actual protruding strap eyes should now be along the UPPER long edge, visibly ABOVE the case's center of mass. All shell geometry, center joint, seams, eyes and two latches rotate TOGETHER. Do not relocate, duplicate or invent eyes.
+Thread a short olive cord loop through EACH existing eye slot. Under the case's weight each loop bears against the OUTER bridge of its eye, extends OUTWARD AWAY from the shell and then UP toward the shoulder strap. The two strap branches run straight and taut through free air to the shoulder. Leave visible daylight between strap/cord and the case surface; never run them over the lid, through the shell, wrapped around an end, or hooked to a latch. The entire body hangs BELOW those two tension points with believable gravity and balance. Match a real suspended slender shoulder bag, not a flat tray supported from below.
+Preserve the original 600 mm slender warm ivory 3D-printed capsule design, its shallow diagonal contours, center transverse joint, two flush latches, exactly two original integral rectangular strap eyes, correct adult scale, satin polymer, and visual identity. Keep the whole product visible. No typography, labels, logos, watermarks, extra hardware or duplicate products.
+
+### Scene-specific edits
+
+#### carry.jpg
+
+Preserve this person, linen clothing, street, lighting and general framing. Carry the reoriented case at the same hip from one continuous olive strap over the shoulder. Both outward eye connections and the broad upright lid face must be clear. Change only the case's hanging orientation and strap load path, preserving its exact rigid shape.
+
+#### rain.jpg
+
+Preserve this person, black rain jacket, raindrops, street, light and general framing. Carry the reoriented case at the same hip from the olive shoulder strap. The two eye connections are above the hanging shell, with taut strap branches clear of the surface. Change only the case's hanging orientation and strap load path, preserving its exact rigid shape.
+
+#### backpacking.jpg
+
+Change how the hiker carries the case. REMOVE the two short links suspending it from the backpack. Instead add one continuous olive SHOULDER STRAP worn OVER THE PERSON'S SHOULDER, passing across the torso, with two taut branches descending to the actual case eyes. The case hangs freely beside the person's hip, on their side, NOT attached to or resting across the backpack. Adjust the person's angle slightly to a side/rear three-quarter view if needed to make the shoulder strap and both eye connections visible. Preserve the same forest trail, lake, muted olive clothing and backpack, natural light and overall editorial photographic style. No hand holding the case; the shoulder strap bears its weight.
+
+### Latch-position correction
+
+Use case: precise-object-edit. Image 1 is the target lifestyle scene with the CORRECT new suspended orientation. Image 2 is the actual CAD closed case showing exact relation between strap eyes, clamshell seam and latches. Keep the new hanging orientation, taut strap path clear of the shell, shoulder carry, two upper strap eyes, person, pose, background, lighting and framing UNCHANGED. Correct ONLY the misplaced latch edge: in the real model the TWO latches and the TWO strap eyes are on the SAME long edge. Move both small ivory latch clips from the LOWER visible edge to the UPPER long rim, between the two existing strap eyes, one on either side of the center joint, approximately one-quarter and three-quarters along the case. Ensure a thin straight clamshell seam connects along this SAME UPPER rim beneath the eyes and the two latches. Remove the old lower latch clips completely and restore a smooth lower silhouette there. Preserve exactly two latches and two eyes, exact slender capsule, center transverse joint and subtle sculpted shape. Do not change the eyes or move the straps. Do not flatten the case back into a tray; it must still hang below the two high outer tension points. No added parts, holes, duplicate latches, text or watermark. Landscape 1536x1024.
